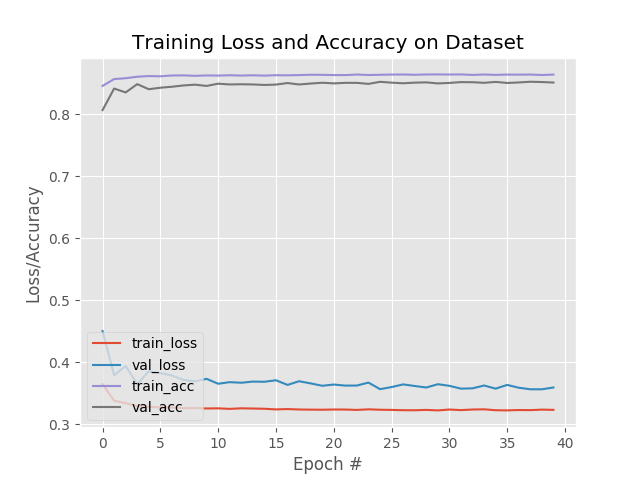
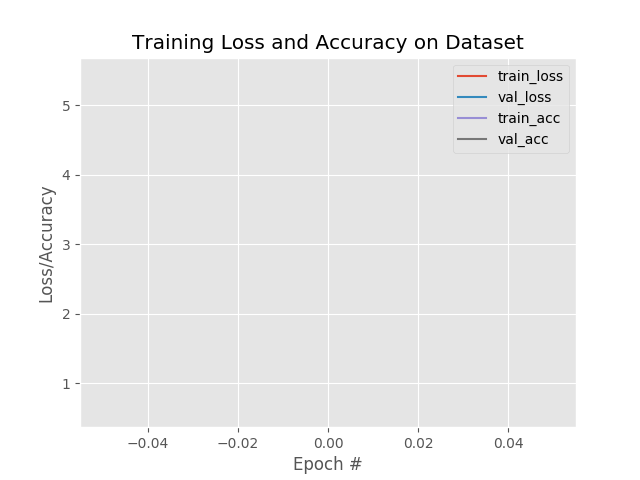
config refs.

diff --git a/train_model.py b/train_model.py
@@ -1,38 +1,32 @@
+import argparse
+import datetime
+import os
+
 import matplotlib
-
-from models.separable_conv import SeparableConv
-
-matplotlib.use("Agg")
-
-from keras.preprocessing.image import ImageDataGenerator
+import matplotlib.pyplot as plt
+import numpy as np
+from imutils import paths
 from keras.optimizers import Adagrad
+from keras.preprocessing.image import ImageDataGenerator
 from keras.utils import np_utils
 from sklearn.metrics import classification_report
 from sklearn.metrics import confusion_matrix
-from config import config
-from imutils import paths
-import matplotlib.pyplot as plt
-import numpy as np
-import argparse
-import os
 
+from config import config
+from models.separable_conv import SeparableConv
 
 # construct the argument parser and parse the arguments
 ap = argparse.ArgumentParser()
 ap.add_argument("-p", "--plot", type=str, default="plot.png",
                 help="path to output loss/accuracy plot")
+
+ap.add_argument("-c", "--conv", type=str, default="separable",
+                help="separable or normal convolution layers")
 args = vars(ap.parse_args())
 
-# initialize our number of epochs, initial learning rate, and batch
-# size
-NUM_EPOCHS = 40
-INIT_LR = 1e-2
-BS = 32
-
-# initialize our CancerNet config and compile it
 model = SeparableConv.build_model(width=48, height=48, depth=3,
                                   classes=2)
-opt = Adagrad(lr=INIT_LR, decay=INIT_LR / NUM_EPOCHS)
+opt = Adagrad(lr=config.INIT_LR, decay=config.INIT_LR / config.NUM_EPOCHS)
 model.compile(loss="binary_crossentropy", optimizer=opt,
               metrics=["accuracy"])
 print(model.summary())
@@ -42,10 +36,12 @@ plot_model(model, to_file='model_plot.png', show_shapes=True, show_layer_names=T
 
 # determine the total number of image paths in training, validation,
 # and testing directories
-trainPaths = list(paths.list_images(config.TRAIN_PATH))
+trainPaths = list(paths.list_images(config.TRAIN_PATH))[:500]
 totalTrain = len(trainPaths)
 totalVal = len(list(paths.list_images(config.VAL_PATH)))
 totalTest = len(list(paths.list_images(config.TEST_PATH)))
+
+print("totalTrain : % 2d, totalVal : % 2d, totalTest: % 2d" % (totalTrain, totalVal, totalTest))
 
 # account for skew in the labeled data
 trainLabels = [int(p.split(os.path.sep)[-2]) for p in trainPaths]
@@ -75,7 +71,7 @@ trainGen = trainAug.flow_from_directory(
     target_size=(48, 48),
     color_mode="rgb",
     shuffle=True,
-    batch_size=BS)
+    batch_size=config.BATCH_SIZE)
 
 # initialize the validation generator
 valGen = valAug.flow_from_directory(
@@ -84,7 +80,7 @@ valGen = valAug.flow_from_directory(
     target_size=(48, 48),
     color_mode="rgb",
     shuffle=False,
-    batch_size=BS)
+    batch_size=config.BATCH_SIZE)
 
 # initialize the testing generator
 testGen = valAug.flow_from_directory(
@@ -93,23 +89,23 @@ testGen = valAug.flow_from_directory(
     target_size=(48, 48),
     color_mode="rgb",
     shuffle=False,
-    batch_size=BS)
+    batch_size=config.BATCH_SIZE)
 
 # fit the config
 H = model.fit_generator(
     trainGen,
-    steps_per_epoch=totalTrain // BS,
+    steps_per_epoch=totalTrain // config.BATCH_SIZE,
     validation_data=valGen,
-    validation_steps=totalVal // BS,
+    validation_steps=totalVal // config.BATCH_SIZE,
     class_weight=classWeight,
-    epochs=NUM_EPOCHS)
+    epochs=config.NUM_EPOCHS)
 
 # reset the testing generator and then use our trained config to
 # make predictions on the data
-print("[INFO] evaluating network...")
+print("Network evaluation")
 testGen.reset()
 predIdxs = model.predict_generator(testGen,
-                                   steps=(totalTest // BS) + 1)
+                                   steps=(totalTest // config.BATCH_SIZE) + 1)
 
 # for each image in the testing set we need to find the index of the
 # label with corresponding largest predicted probability
@@ -132,17 +128,17 @@ print(cm)
 print("acc: {:.4f}".format(acc))
 print("sensitivity: {:.4f}".format(sensitivity))
 print("specificity: {:.4f}".format(specificity))
-
+matplotlib.use("Agg")
 # plot the training loss and accuracy
-N = NUM_EPOCHS
+N = config.NUM_EPOCHS
 plt.style.use("ggplot")
 plt.figure()
 plt.plot(np.arange(0, N), H.history["loss"], label="train_loss")
 plt.plot(np.arange(0, N), H.history["val_loss"], label="val_loss")
-plt.plot(np.arange(0, N), H.history["acc"], label="train_acc")
-plt.plot(np.arange(0, N), H.history["val_acc"], label="val_acc")
+plt.plot(np.arange(0, N), H.history["accuracy"], label="train_acc")
+plt.plot(np.arange(0, N), H.history["val_accuracy"], label="val_acc")
 plt.title("Training Loss and Accuracy on Dataset")
 plt.xlabel("Epoch #")
 plt.ylabel("Loss/Accuracy")
-plt.legend(loc="lower left")
-plt.savefig(args["plot"])
+plt.legend(loc="best")
+plt.savefig(datetime.datetime.now().strftime("%d-%m-%Y_%H-%M-%S") + args["conv"] + "_" + args["plot"])

diff --git a/config/config.py b/config/config.py
@@ -9,3 +9,7 @@ TEST_PATH = os.path.sep.join([BASE_PATH, "testing"])
 
 TRAIN_SPLIT = 0.8
 VAL_SPLIT = 0.1
+
+NUM_EPOCHS = 1
+INIT_LR = 1e-1
+BATCH_SIZE = 32
